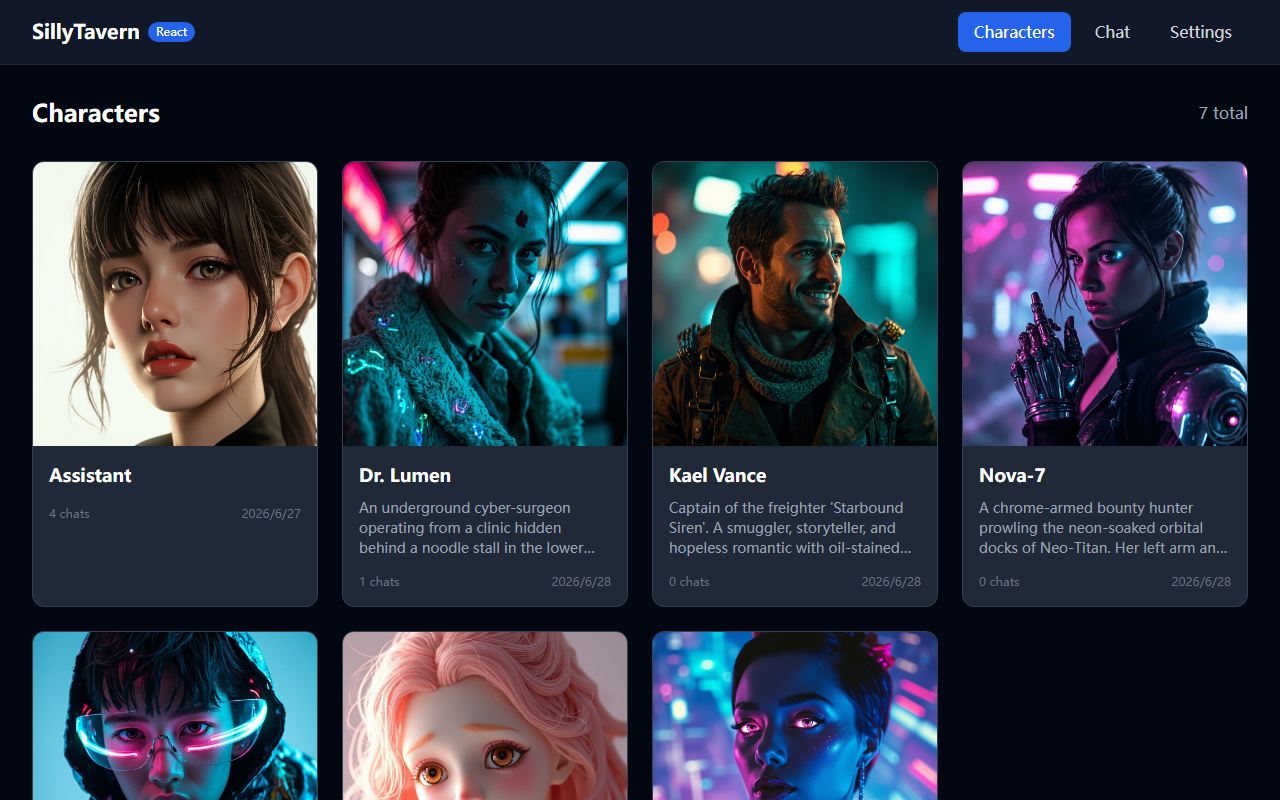
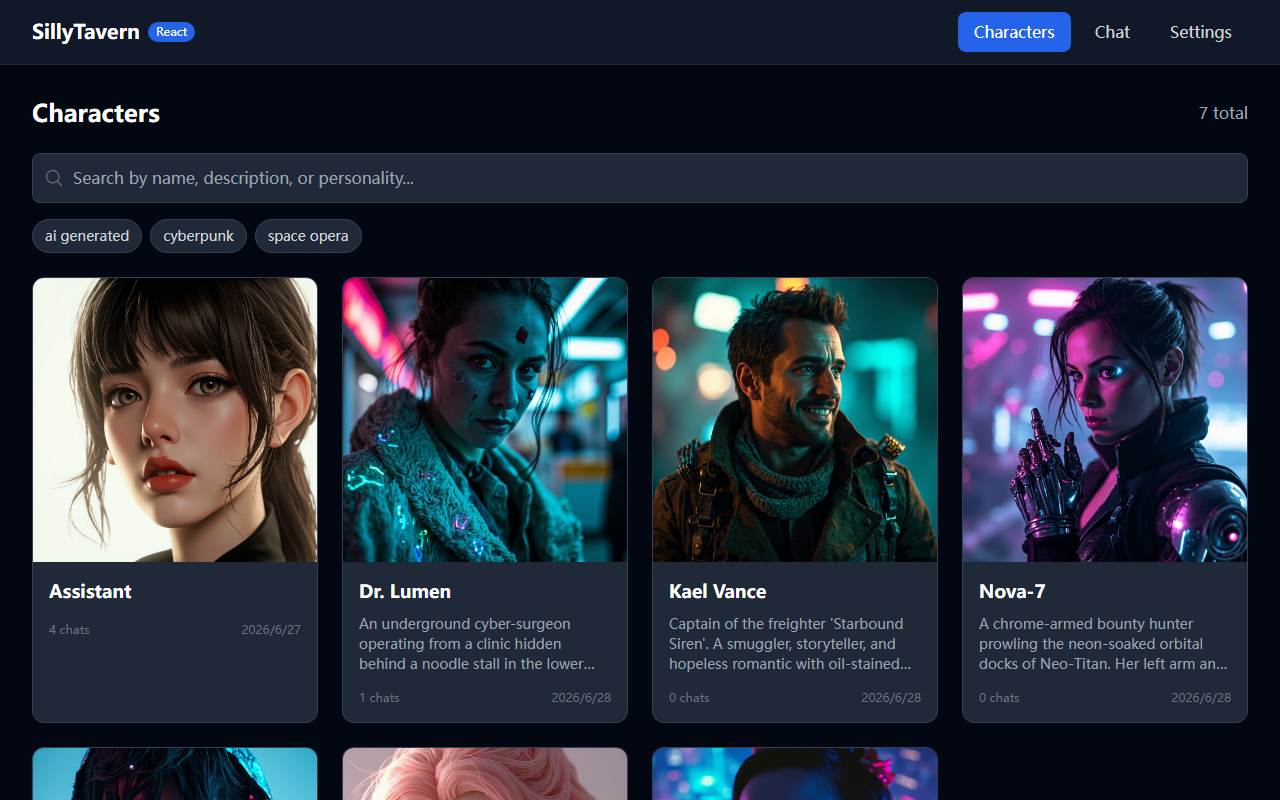
feat: add character search and tag filtering
- Add tags field to Character type
- Add search box filtering by name, description, and personality
- Derive tag chips dynamically from character tags
- Support multi-select tag filtering with clear-filters action
- Update filtered count display
- Refresh E2E screenshots

diff --git a/frontend/src/pages/Characters.tsx b/frontend/src/pages/Characters.tsx
@@ -1,4 +1,4 @@
-import { useEffect, useState } from 'react'
+import { useEffect, useMemo, useState } from 'react'
 import { useNavigate } from 'react-router-dom'
 import { apiPost } from '../api/client'
 import { Skeleton, EmptyState, ErrorState, CharacterCardSkeleton } from '../components/ui'
@@ -9,6 +9,8 @@ function Characters() {
   const [characters, setCharacters] = useState<Character[]>([])
   const [loading, setLoading] = useState(true)
   const [error, setError] = useState<string | null>(null)
+  const [searchQuery, setSearchQuery] = useState('')
+  const [selectedTags, setSelectedTags] = useState<string[]>([])
 
   const loadCharacters = () => {
     setLoading(true)
@@ -27,6 +29,44 @@ function Characters() {
   useEffect(() => {
     loadCharacters()
   }, [])
+
+  const allTags = useMemo(() => {
+    const tagSet = new Set<string>()
+    for (const character of characters) {
+      for (const tag of character.tags || []) {
+        tagSet.add(tag)
+      }
+    }
+    return Array.from(tagSet).sort()
+  }, [characters])
+
+  const filteredCharacters = useMemo(() => {
+    const query = searchQuery.trim().toLowerCase()
+    return characters.filter((character) => {
+      const matchesQuery =
+        !query ||
+        character.name.toLowerCase().includes(query) ||
+        (character.description?.toLowerCase() || '').includes(query) ||
+        (character.personality?.toLowerCase() || '').includes(query)
+
+      const matchesTags =
+        selectedTags.length === 0 ||
+        selectedTags.every((tag) => (character.tags || []).includes(tag))
+
+      return matchesQuery && matchesTags
+    })
+  }, [characters, searchQuery, selectedTags])
+
+  const toggleTag = (tag: string) => {
+    setSelectedTags((prev) =>
+      prev.includes(tag) ? prev.filter((t) => t !== tag) : [...prev, tag]
+    )
+  }
+
+  const clearFilters = () => {
+    setSearchQuery('')
+    setSelectedTags([])
+  }
 
   if (loading) {
     return (
@@ -54,17 +94,82 @@ function Characters() {
     )
   }
 
+  const hasFilters = searchQuery.trim() || selectedTags.length > 0
+
   return (
     <div className="max-w-7xl mx-auto px-4 sm:px-6 lg:px-8 py-8">
-      <div className="flex items-center justify-between mb-8">
+      <div className="flex items-center justify-between mb-6">
         <h1 className="text-2xl font-bold text-white">Characters</h1>
-        <span className="text-gray-400">{characters.length} total</span>
+        <span className="text-gray-400">
+          {hasFilters ? `${filteredCharacters.length} of ${characters.length}` : `${characters.length} total`}
+        </span>
       </div>
 
-      {characters.length === 0 ? (
+      {/* Search */}
+      <div className="relative mb-4">
+        <div className="absolute inset-y-0 left-0 pl-3 flex items-center pointer-events-none">
+          <svg
+            xmlns="http://www.w3.org/2000/svg"
+            className="h-5 w-5 text-gray-500"
+            fill="none"
+            viewBox="0 0 24 24"
+            stroke="currentColor"
+            strokeWidth={1.5}
+          >
+            <path
+              strokeLinecap="round"
+              strokeLinejoin="round"
+              d="M21 21l-5.197-5.197m0 0A7.5 7.5 0 105.196 5.196a7.5 7.5 0 0010.607 10.607z"
+            />
+          </svg>
+        </div>
+        <input
+          type="text"
+          value={searchQuery}
+          onChange={(e) => setSearchQuery(e.target.value)}
+          placeholder="Search by name, description, or personality..."
+          className="w-full bg-gray-800 text-white rounded-lg pl-10 pr-4 py-3 border border-gray-700 focus:border-blue-500 focus:outline-none"
+        />
+      </div>
+
+      {/* Tags */}
+      {allTags.length > 0 && (
+        <div className="flex flex-wrap items-center gap-2 mb-6">
+          {allTags.map((tag) => {
+            const selected = selectedTags.includes(tag)
+            return (
+              <button
+                key={tag}
+                onClick={() => toggleTag(tag)}
+                className={`px-3 py-1.5 text-sm rounded-full border transition-colors ${
+                  selected
+                    ? 'bg-blue-600 border-blue-600 text-white'
+                    : 'bg-gray-800 border-gray-700 text-gray-300 hover:border-gray-500'
+                }`}
+              >
+                {tag}
+              </button>
+            )
+          })}
+          {hasFilters && (
+            <button
+              onClick={clearFilters}
+              className="text-sm text-gray-400 hover:text-white underline ml-2"
+            >
+              Clear filters
+            </button>
+          )}
+        </div>
+      )}
+
+      {filteredCharacters.length === 0 ? (
         <EmptyState
-          title="No characters yet"
-          description="Add a character card to the characters folder, or use the legacy UI to create one."
+          title={hasFilters ? 'No matching characters' : 'No characters yet'}
+          description={
+            hasFilters
+              ? 'Try adjusting your search or tags.'
+              : 'Add a character card to the characters folder, or use the legacy UI to create one.'
+          }
           icon={
             <svg
               xmlns="http://www.w3.org/2000/svg"
@@ -84,7 +189,7 @@ function Characters() {
         />
       ) : (
         <div className="grid grid-cols-1 sm:grid-cols-2 lg:grid-cols-3 xl:grid-cols-4 gap-6">
-          {characters.map((character) => (
+          {filteredCharacters.map((character) => (
             <div
               key={character.avatar}
               onClick={() => navigate(`/character/${encodeURIComponent(character.avatar)}`)}

diff --git a/frontend/src/types/index.ts b/frontend/src/types/index.ts
@@ -9,6 +9,7 @@ export interface Character {
   chat_file_count?: number
   create_date?: string
   date_last_chat?: number
+  tags?: string[]
 }
 
 export interface ChatMessage {
